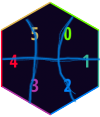
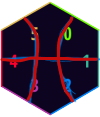
fixed gem mapping

Changed region(s): [[0.0, 0.1282, 0.99, 0.8974]]

diff --git a/src/main/kotlin/view/GameScene.kt b/src/main/kotlin/view/GameScene.kt
@@ -11,7 +11,6 @@ import tools.aqua.bgw.core.BoardGameScene
 import tools.aqua.bgw.style.BorderColor
 import tools.aqua.bgw.style.BorderWidth
 import tools.aqua.bgw.visual.ColorVisual
-import tools.aqua.bgw.visual.CompoundVisual
 import tools.aqua.bgw.visual.ImageVisual
 import tools.aqua.bgw.visual.Visual
 import java.awt.Color
@@ -946,7 +945,7 @@ class GameScene(val indigoApp: IndigoApplication) :
 
 
 
-    fun repositionGems() {
+    private fun repositionGems() {
 
     }
 
@@ -1243,7 +1242,7 @@ class GameScene(val indigoApp: IndigoApplication) :
         //Reihe 2
         for (i in -1..4) {
             val count = i + 1
-            coordMap[Coordinate(i, -3)] = Position(647.0, y2 + count * 95)
+            coordMap[Coordinate(i, -3)] = Position(674.0, y2 + count * 95)
         }
 
         //Reihe 8
